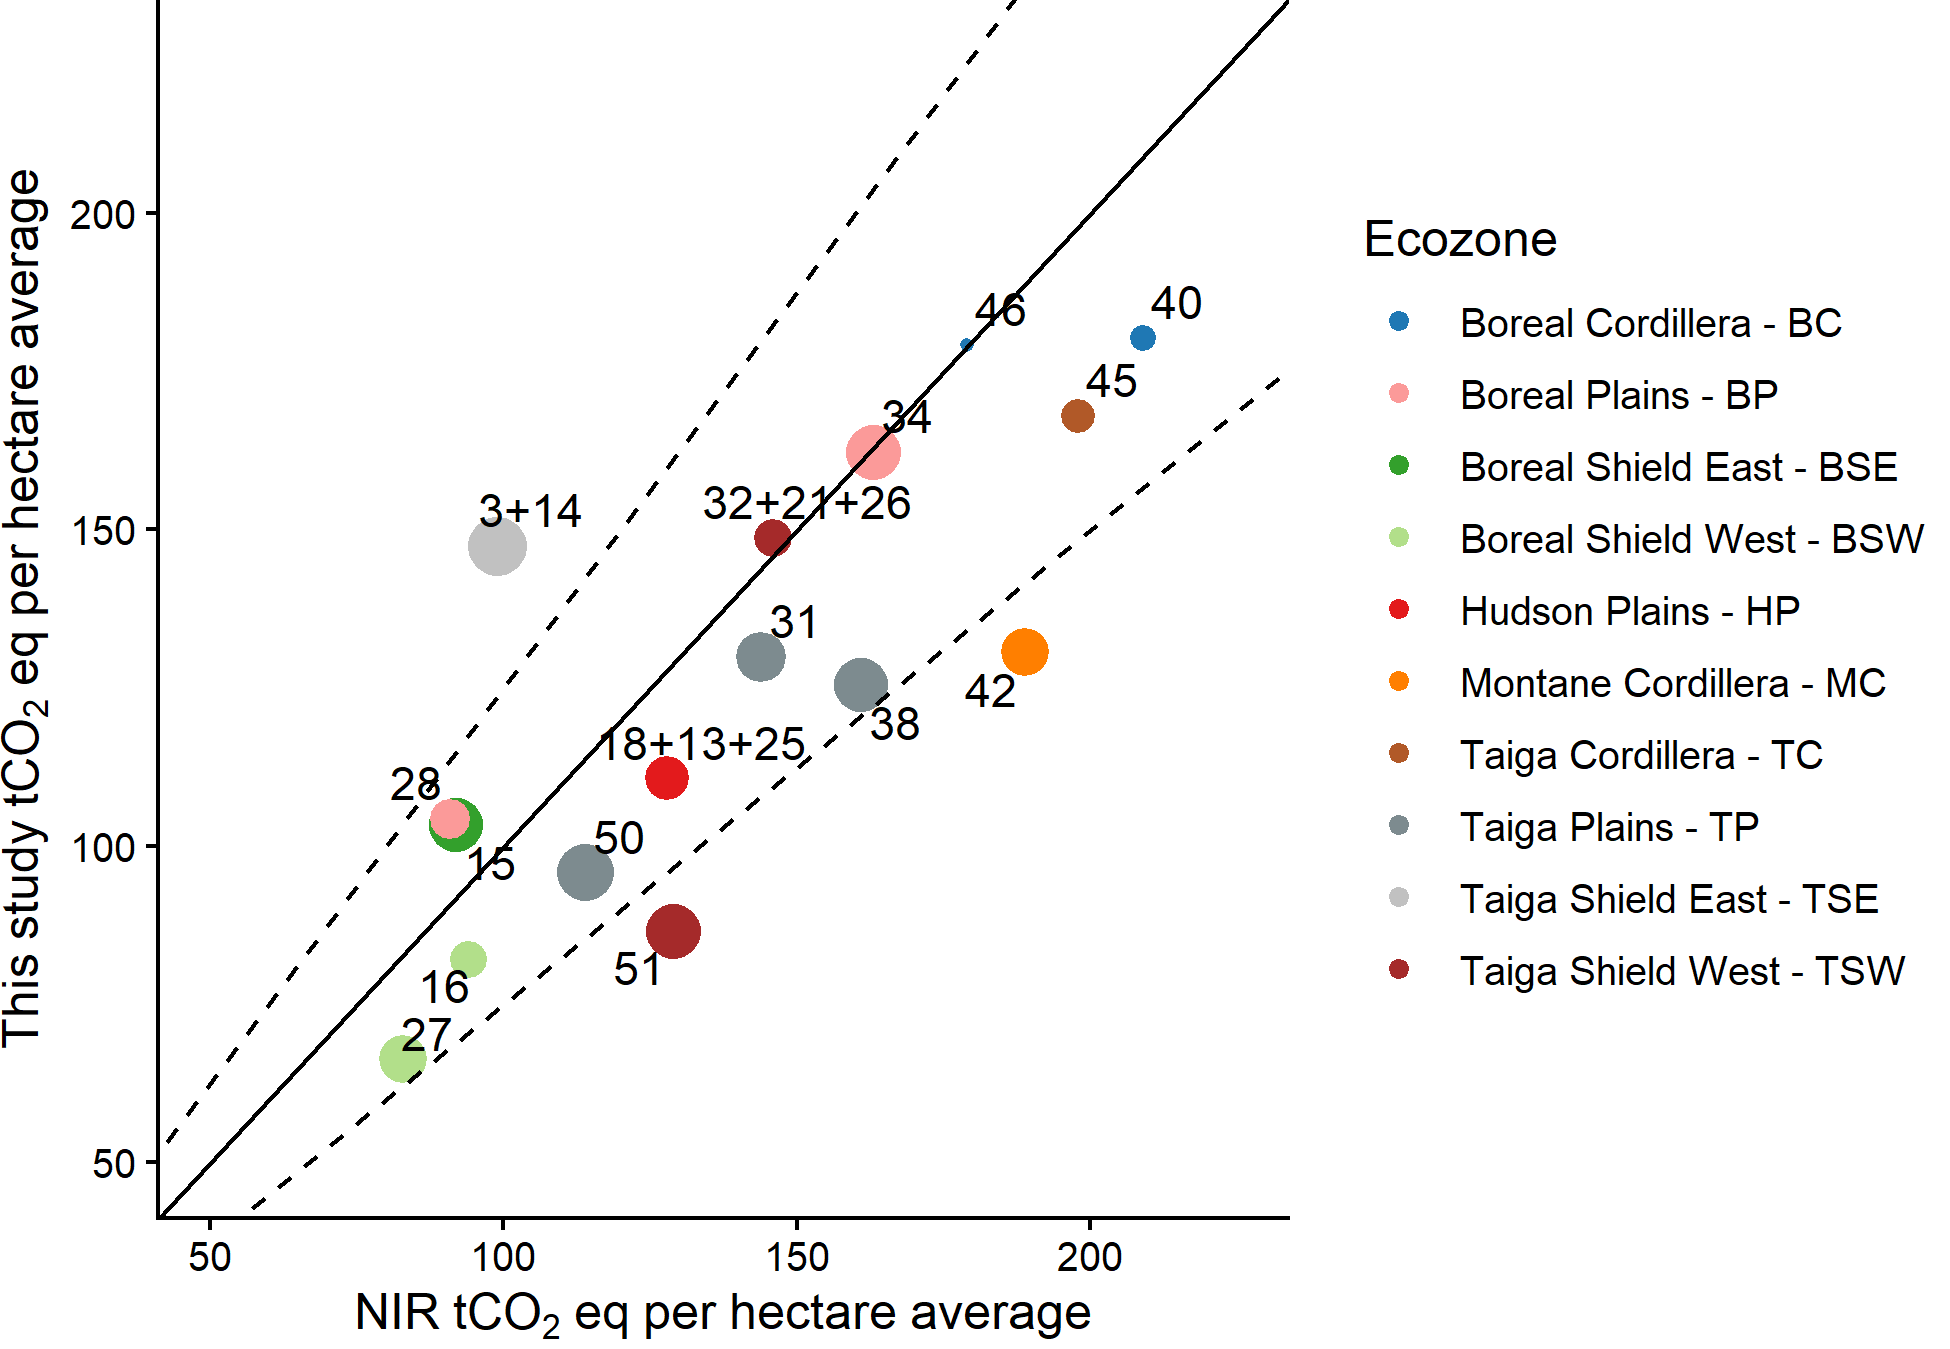
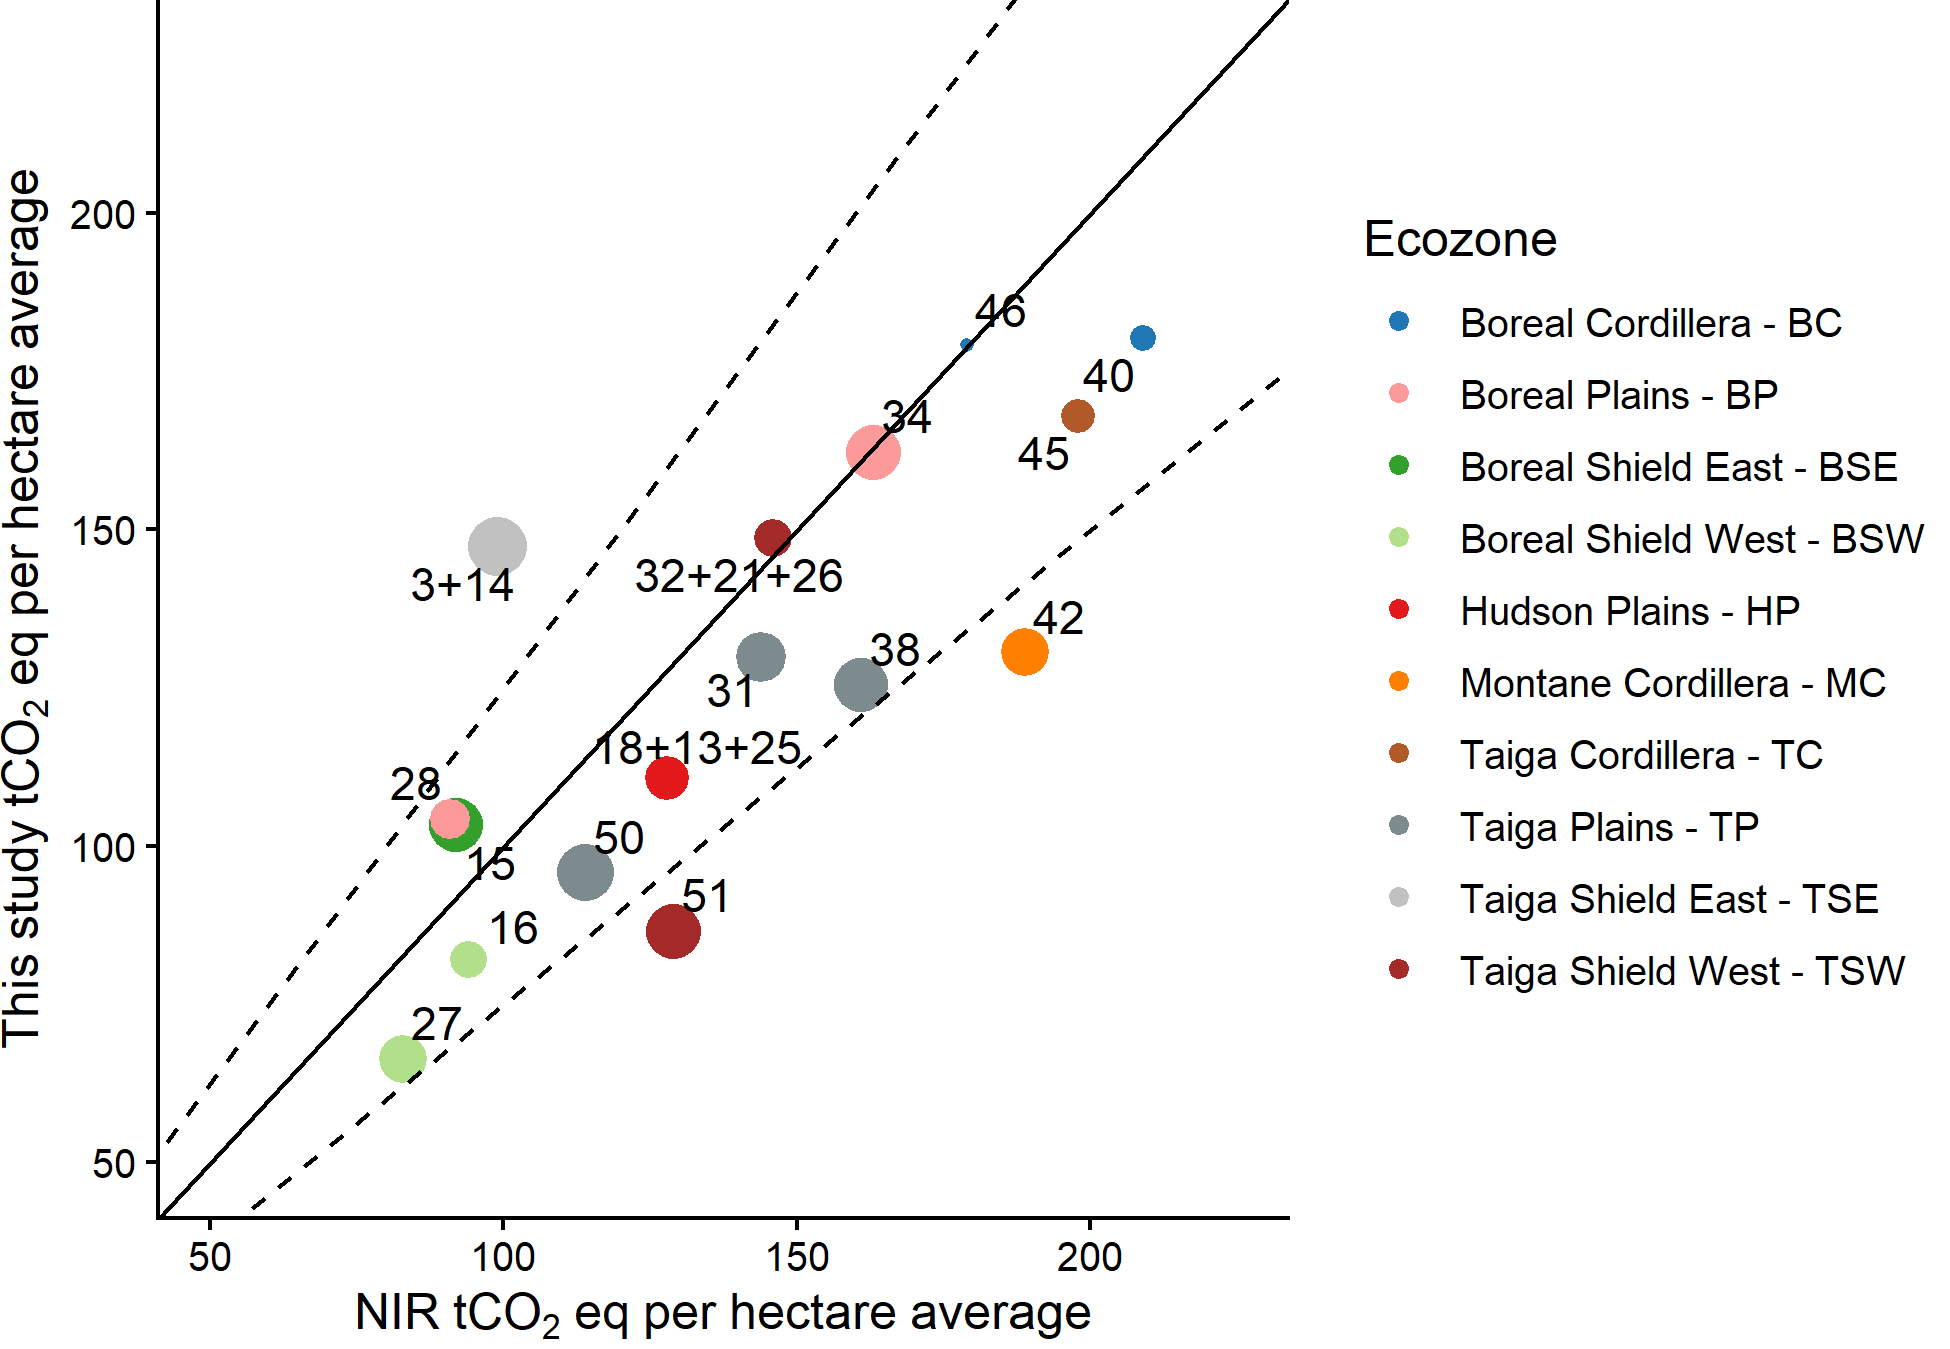
journal proofs incl some minor figure renaming etc

diff --git a/GMD/FireDMs.tex b/GMD/FireDMs.tex
@@ -177,11 +177,9 @@ season show good model agreement with observations.
 \end{abstract}
 
 
-\copyrightstatement{Copyright His Majesty the King in Right of Canada as
-represented by the Minister of Natural Resources Canada. This work is
-available under the Open Government Licence - Canada
-(http://open.canada.ca/en/open-government-licence-canada).}
 
+
+\copyrightstatement{{\copyright} His Majesty the King in Right of Canada, as represented by the Minister of Natural Resources Canada, 2026.}
 
 \section{Introduction}
 
